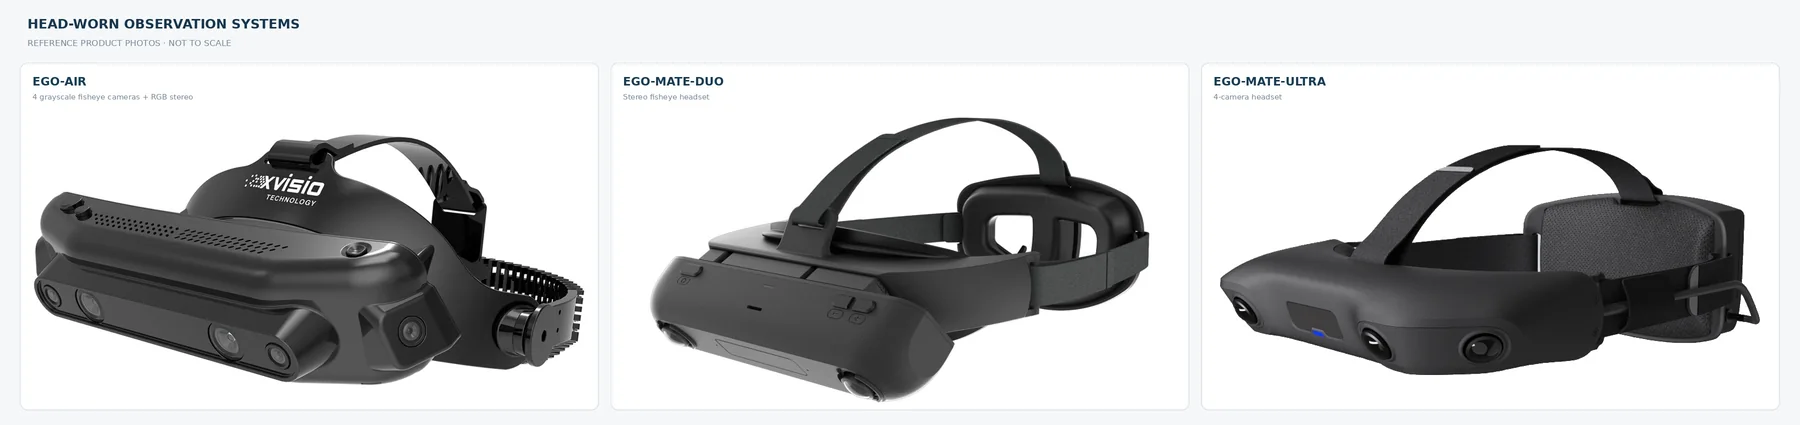
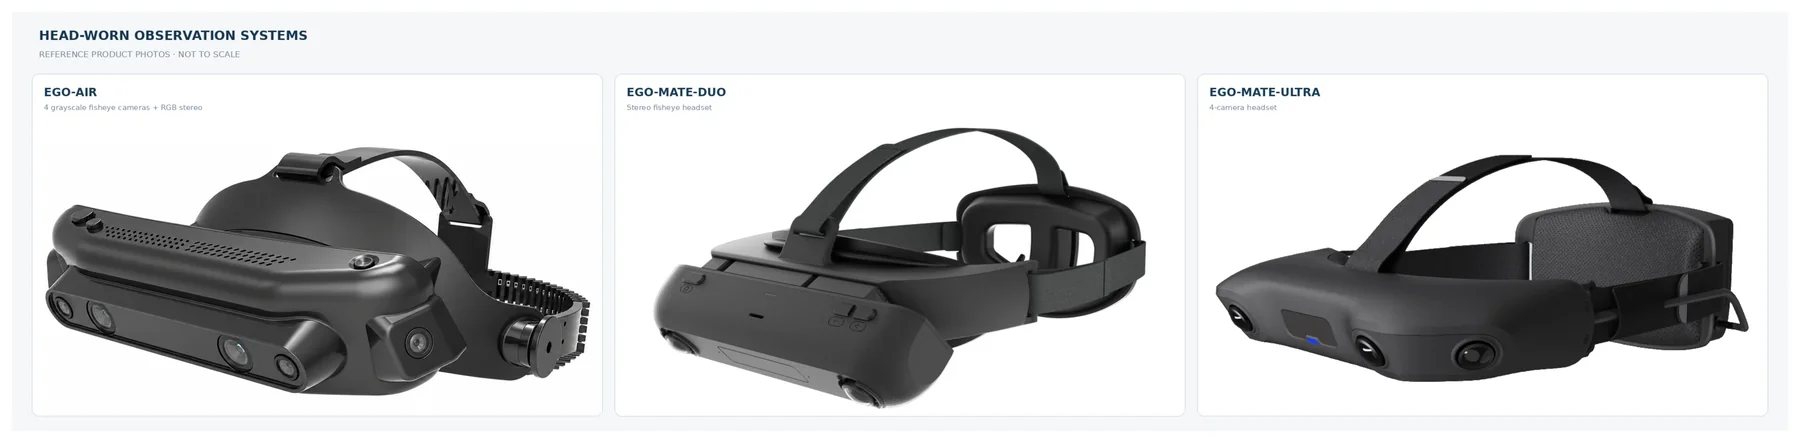
Update headset side image

diff --git a/index.html b/index.html
@@ -126,7 +126,7 @@
         ./assets/products_headsets_side-960.webp 960w,
         ./assets/products_headsets_side-1800.webp 1800w"
       sizes="(max-width: 430px) calc(100vw - 32px), (max-width: 800px) 90vw, calc(min(1180px, calc(100vw - min(10vw, 120px))) - 205px - min(5vw, 72px))">
-    <img loading="lazy" width="3600" height="850" decoding="async" src="./assets/products_headsets_side.jpg" alt="Ego-Air、Ego-Mate-Duo 与 Ego-Mate-Ultra 头环设备侧面外观示例" />
+    <img loading="lazy" width="7296" height="1796" decoding="async" src="./assets/products_headsets_side.png" alt="Ego-Air、Ego-Mate-Duo 与 Ego-Mate-Ultra 头环设备侧面外观示例" />
   </picture>
   <figcaption>图 3｜从左至右为 Ego-Air、Ego-Mate-Duo、Ego-Mate-Ultra，非等比例展示。Ultra 图片做了水平镜像以统一朝向，不能据此判断实际左右结构或传感器位置。</figcaption>
 </figure>
